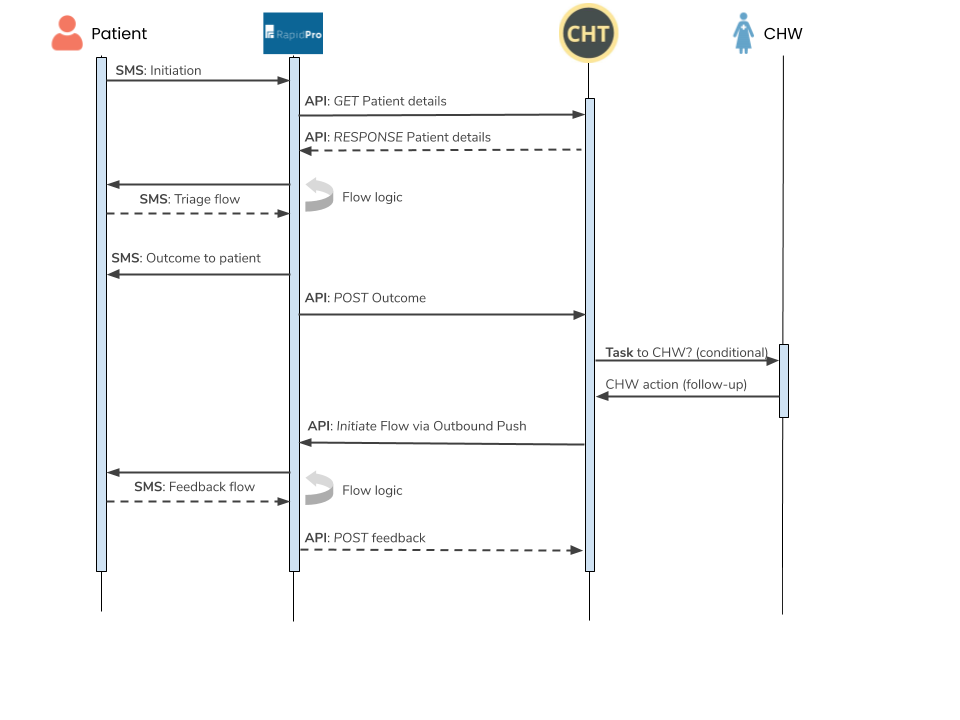
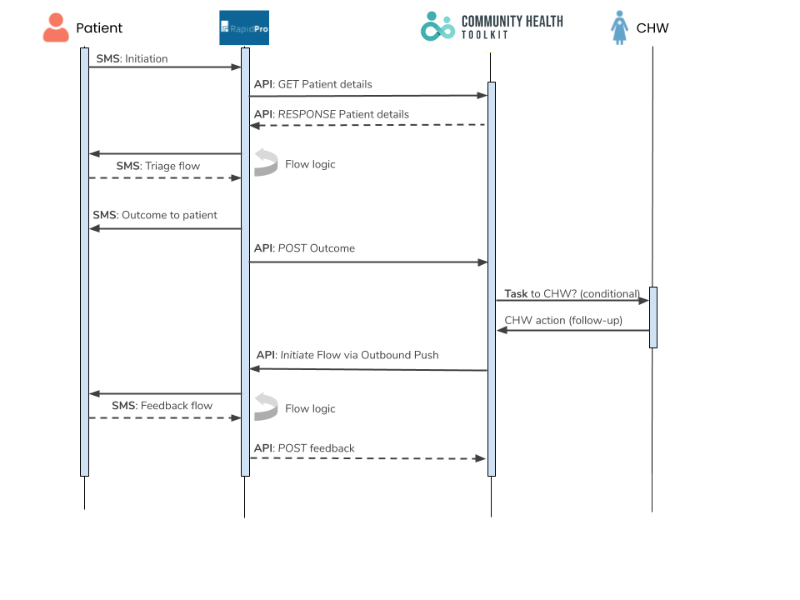
deploy: medic/cht-docs@770b8675240901bf1123230ab7946352ca814cf2

Changed region(s): [[0.5, 0.0, 0.7188, 0.09]]

diff --git a/building/guides/integrations/openmrs/index.html b/building/guides/integrations/openmrs/index.html
@@ -1,8 +1,8 @@
 <!doctype html><html itemscope itemtype=http://schema.org/WebPage lang=en class=no-js><head><meta charset=utf-8><meta name=viewport content="width=device-width,initial-scale=1,shrink-to-fit=no"><meta name=robots content="index, follow"><link rel="shortcut icon" href=/favicons/favicon.ico><link rel=apple-touch-icon href=/favicons/apple-touch-icon-180x180.png sizes=180x180><link rel=icon type=image/png href=/favicons/favicon-16x16.png sizes=16x16><link rel=icon type=image/png href=/favicons/favicon-32x32.png sizes=32x32><link rel=icon type=image/png href=/favicons/android-36x36.png sizes=36x36><link rel=icon type=image/png href=/favicons/android-48x48.png sizes=48x48><link rel=icon type=image/png href=/favicons/android-72x72.png sizes=72x72><link rel=icon type=image/png href=/favicons/android-96x96.png sizes=96x96><link rel=icon type=image/png href=/favicons/android-144x144.png sizes=144x144><link rel=icon type=image/png href=/favicons/android-192x192.png sizes=192x192><title>OpenMRS | Community Health Toolkit</title>
 <meta name=description content="Exchange patient-level data with systems based on the OpenMRS platform
 "><meta property="og:title" content="OpenMRS"><meta property="og:description" content="Exchange patient-level data with systems based on the OpenMRS platform
-"><meta property="og:type" content="article"><meta property="og:url" content="https://docs.communityhealthtoolkit.org/building/guides/integrations/openmrs/"><meta property="article:section" content="building"><meta property="article:modified_time" content="2024-09-12T21:04:47+03:00"><meta property="og:site_name" content="Community Health Toolkit"><meta itemprop=name content="OpenMRS"><meta itemprop=description content="Exchange patient-level data with systems based on the OpenMRS platform
-"><meta itemprop=dateModified content="2024-09-12T21:04:47+03:00"><meta itemprop=wordCount content="1490"><meta itemprop=keywords content><meta name=twitter:card content="summary"><meta name=twitter:title content="OpenMRS"><meta name=twitter:description content="Exchange patient-level data with systems based on the OpenMRS platform
+"><meta property="og:type" content="article"><meta property="og:url" content="https://docs.communityhealthtoolkit.org/building/guides/integrations/openmrs/"><meta property="article:section" content="building"><meta property="article:modified_time" content="2024-10-03T17:52:16+05:30"><meta property="og:site_name" content="Community Health Toolkit"><meta itemprop=name content="OpenMRS"><meta itemprop=description content="Exchange patient-level data with systems based on the OpenMRS platform
+"><meta itemprop=dateModified content="2024-10-03T17:52:16+05:30"><meta itemprop=wordCount content="1490"><meta itemprop=keywords content><meta name=twitter:card content="summary"><meta name=twitter:title content="OpenMRS"><meta name=twitter:description content="Exchange patient-level data with systems based on the OpenMRS platform
 "><link rel=preload href=/scss/main.min.190d4778e46dcbeaa7f52d0cdaca0337d1b1d02e0f1f1182af6223de3bd2058c.css as=style><link href=/scss/main.min.190d4778e46dcbeaa7f52d0cdaca0337d1b1d02e0f1f1182af6223de3bd2058c.css rel=stylesheet integrity><script src=https://code.jquery.com/jquery-3.7.1.min.js integrity="sha512-v2CJ7UaYy4JwqLDIrZUI/4hqeoQieOmAZNXBeQyjo21dadnwR+8ZaIJVT8EE2iyI61OV8e6M8PP2/4hpQINQ/g==" crossorigin=anonymous></script><script async src="https://www.googletagmanager.com/gtag/js?id=G-98W4V2NTPJ"></script><script>var doNotTrack=!1;if(!doNotTrack){window.dataLayer=window.dataLayer||[];function gtag(){dataLayer.push(arguments)}gtag("js",new Date),gtag("config","G-98W4V2NTPJ")}</script></head><body class=td-page><header><nav class="td-navbar js-navbar-scroll" data-bs-theme=dark><div class="container-fluid flex-column flex-md-row"><a class=navbar-brand href=/><span class="navbar-brand__logo navbar-logo"><svg version="1.0" width="30pt" height="30pt" viewBox="0 0 30 30" preserveAspectRatio="xMidYMid" id="svg10" sodipodi:docname="logo.svg" xmlns:inkscape="http://www.inkscape.org/namespaces/inkscape" xmlns:sodipodi="http://sodipodi.sourceforge.net/DTD/sodipodi-0.dtd" xmlns="http://www.w3.org/2000/svg" xmlns:svg="http://www.w3.org/2000/svg"><defs id="defs14"/><sodipodi:namedview id="namedview12" pagecolor="#ffffff" bordercolor="#000000" borderopacity=".25" inkscape:showpageshadow="2" inkscape:pageopacity="0" inkscape:pagecheckerboard="0" inkscape:deskcolor="#d1d1d1" inkscape:document-units="pt" showgrid="false"/><g transform="matrix(0.01425486,0,0,-0.01425486,-6.1268548,35.340843)" fill="#fff" stroke="none" id="g8" inkscape:export-filename="logo.svg" inkscape:export-xdpi="11.943796" inkscape:export-ydpi="11.943796"><path d="m1057 24e2c-142-36-238-167-224-305 24-239 311-344 483-178 143 140 96 391-88 468-47 19-125 26-171 15z" id="path2"/><path d="m1945 2076c-34-15-92-76-106-113-26-68-1-170 53-220 97-91 257-61 319 59 21 41 25 120 8 165-14 38-67 92-106 109-40 17-128 17-168 0z" id="path4"/><path d="M9e2 1744c-260-68-440-3e2-440-564 1-272 187-509 450-571 77-18 213-16 285 5 121 36 191 82 341 228l140 137 80-80c58-59 99-90 153-117 73-36 77-37 190-37 110 0 120 2 184 32 376 178 325 721-78 829-158 43-301-4-447-144l-88-85-143 140c-155 153-225 199-349 228-79 18-206 18-278-1zm271-293c24-12 103-77 174-146l130-124-120-121c-148-149-204-182-313-181-96 0-157 27-222 98-149 163-83 410 129 490 53 20 167 12 222-16zm1017-138c44-33 65-69 70-122 9-97-61-171-163-171-60 0-87 15-162 92l-63 64 73 71c39 40 83 77 97 82 37 16 117 7 148-16z" id="path6"/></g></svg></span><span class=navbar-brand__name>Community Health Toolkit</span></a><div class="td-navbar-nav-scroll ms-md-auto" id=main_navbar><ul class=navbar-nav><li class="td-light-dark-menu nav-item dropdown"><svg xmlns="http://www.w3.org/2000/svg" class="d-none"><symbol id="check2" viewBox="0 0 16 16"><path d="M13.854 3.646a.5.5.0 010 .708l-7 7a.5.5.0 01-.708.0l-3.5-3.5a.5.5.0 11.708-.708L6.5 10.293l6.646-6.647a.5.5.0 01.708.0z"/></symbol><symbol id="circle-half" viewBox="0 0 16 16"><path d="M8 15A7 7 0 108 1v14zm0 1A8 8 0 118 0a8 8 0 010 16z"/></symbol><symbol id="moon-stars-fill" viewBox="0 0 16 16"><path d="M6 .278a.768.768.0 01.08.858 7.208 7.208.0 00-.878 3.46c0 4.021 3.278 7.277 7.318 7.277.527.0 1.04-.055 1.533-.16a.787.787.0 01.81.316.733.733.0 01-.031.893A8.349 8.349.0 018.344 16C3.734 16 0 12.286.0 7.71.0 4.266 2.114 1.312 5.124.06A.752.752.0 016 .278z"/><path d="M10.794 3.148a.217.217.0 01.412.0l.387 1.162c.173.518.579.924 1.097 1.097l1.162.387a.217.217.0 010 .412l-1.162.387A1.734 1.734.0 0011.593 7.69l-.387 1.162a.217.217.0 01-.412.0l-.387-1.162A1.734 1.734.0 009.31 6.593l-1.162-.387a.217.217.0 010-.412l1.162-.387a1.734 1.734.0 001.097-1.097l.387-1.162zM13.863.099a.145.145.0 01.274.0l.258.774c.115.346.386.617.732.732l.774.258a.145.145.0 010 .274l-.774.258a1.156 1.156.0 00-.732.732l-.258.774a.145.145.0 01-.274.0l-.258-.774a1.156 1.156.0 00-.732-.732l-.774-.258a.145.145.0 010-.274l.774-.258c.346-.115.617-.386.732-.732L13.863.1z"/></symbol><symbol id="sun-fill" viewBox="0 0 16 16"><path d="M8 12a4 4 0 100-8 4 4 0 000 8zM8 0a.5.5.0 01.5.5v2a.5.5.0 01-1 0v-2A.5.5.0 018 0zm0 13a.5.5.0 01.5.5v2a.5.5.0 01-1 0v-2A.5.5.0 018 13zm8-5a.5.5.0 01-.5.5h-2a.5.5.0 010-1h2a.5.5.0 01.5.5zM3 8a.5.5.0 01-.5.5h-2a.5.5.0 010-1h2A.5.5.0 013 8zm10.657-5.657a.5.5.0 010 .707l-1.414 1.415a.5.5.0 11-.707-.708l1.414-1.414a.5.5.0 01.707.0zm-9.193 9.193a.5.5.0 010 .707L3.05 13.657a.5.5.0 01-.707-.707l1.414-1.414a.5.5.0 01.707.0zm9.193 2.121a.5.5.0 01-.707.0l-1.414-1.414a.5.5.0 01.707-.707l1.414 1.414a.5.5.0 010 .707zM4.464 4.465a.5.5.0 01-.707.0L2.343 3.05a.5.5.0 11.707-.707l1.414 1.414a.5.5.0 010 .708z"/></symbol></svg>
 <button class="btn btn-link nav-link dropdown-toggle d-flex align-items-center" id=bd-theme type=button aria-expanded=false data-bs-toggle=dropdown data-bs-display=static aria-label="Toggle theme (auto)"><svg class="bi my-1 theme-icon-active"><use href="#circle-half"/></svg></button><ul class="dropdown-menu dropdown-menu-end" aria-labelledby=bd-theme-text><li><button type=button class="dropdown-item d-flex align-items-center" data-bs-theme-value=light aria-pressed=false>
 <svg class="bi me-2 opacity-50"><use href="#sun-fill"/></svg>
@@ -315,7 +315,7 @@ Auto<svg class="bi ms-auto d-none"><use href="#check2"/></svg></button></li></ul
 <label for=m-contributemediconboardingteam-meetings-check><a href=/contribute/medic/onboarding/team-meetings/ class="align-left pl-0 td-sidebar-link td-sidebar-link__page" id=m-contributemediconboardingteam-meetings><span>Team Meetings</span></a></label></li><li class="td-sidebar-nav__section-title td-sidebar-nav__section without-child" id=m-contributemediconboardingdaily-updates-li><input type=checkbox id=m-contributemediconboardingdaily-updates-check>
 <label for=m-contributemediconboardingdaily-updates-check><a href=/contribute/medic/onboarding/daily-updates/ class="align-left pl-0 td-sidebar-link td-sidebar-link__page" id=m-contributemediconboardingdaily-updates><span>Daily Updates</span></a></label></li></ul></li></ul></li></ul></li><li class="td-sidebar-nav__section-title td-sidebar-nav__section without-child" id=m-glossary-li><input type=checkbox id=m-glossary-check>
 <label for=m-glossary-check><a href=/glossary/ title="Glossary and Definitions" class="align-left pl-0 td-sidebar-link td-sidebar-link__page" id=m-glossary><span>Glossary</span></a></label></li></ul></li></ul></nav></div></aside><aside class="d-none d-xl-block col-xl-2 td-sidebar-toc d-print-none"><div class="td-page-meta ml-2 pb-1 pt-2 mb-0"><a href=https://github.com/medic/cht-docs/edit/main/content/en/building/guides/integrations/openmrs.md class=td-page-meta--edit target=_blank rel=noopener><i class="fa fa-edit fa-fw"></i> Edit this page</a>
-<a href="https://github.com/medic/cht-docs/issues/new?title=Improve+%27OpenMRS%27&amp;labels=enhancement&amp;body=Page:+/building/guides/integrations/openmrs/%0aVersion:+2024-09-12%2021:04:47%20+0300%20+0300%0a---" class=td-page-meta--issue target=_blank rel=noopener><i class="fab fa-github fa-fw"></i> Create documentation issue</a>
+<a href="https://github.com/medic/cht-docs/issues/new?title=Improve+%27OpenMRS%27&amp;labels=enhancement&amp;body=Page:+/building/guides/integrations/openmrs/%0aVersion:+2024-10-03%2017:52:16%20+0530%20+0530%0a---" class=td-page-meta--issue target=_blank rel=noopener><i class="fab fa-github fa-fw"></i> Create documentation issue</a>
 <a href=https://github.com/medic/cht-core/issues/new class=td-page-meta--project-issue target=_blank rel=noopener><i class="fas fa-tasks fa-fw"></i> Create project issue</a></div><div class=td-toc><nav id=TableOfContents><ul><li><a href=#overview>Overview</a></li><li><a href=#prerequisites>Prerequisites</a></li><li><a href=#getting-started>Getting started</a><ul><li><a href=#cht-to-openmrs>CHT to OpenMRS</a><ul><li><a href=#mapping-forms>Mapping forms</a></li><li><a href=#handling-the-data>Handling the data</a></li><li><a href=#error-handling>Error Handling</a></li></ul></li><li><a href=#openmrs-to-cht>OpenMRS to CHT</a><ul><li><a href=#scheduled-tasks>Scheduled tasks</a></li><li><a href=#listener-script-in-the-cht>Listener script in the CHT</a></li></ul></li></ul></li></ul></nav></div></aside><main class="col-12 col-md-9 col-xl-8 ps-md-5" role=main><nav aria-label=breadcrumb class=td-breadcrumbs><ol class=breadcrumb><li class=breadcrumb-item><a href=/building/>Building</a></li><li class=breadcrumb-item><a href=/building/guides/>Quick Guides</a></li><li class=breadcrumb-item><a href=/building/guides/integrations/>Integrations</a></li><li class="breadcrumb-item active" aria-current=page>OpenMRS</li></ol></nav><div class=td-content><h1>OpenMRS</h1><div class=lead>Exchange patient-level data with systems based on the OpenMRS platform</div><header class=article-meta></header><p><a href=https://openmrs.org>OpenMRS</a> is an open source electronic medical record system used in dozens of countries. Integrating CHT apps with OpenMRS can open up opportunities to improve health outcomes for patients by promoting better coordination of care. For example, referrals by CHWs in the community can be sent electronically to health facilities using OpenMRS so that nurses and clinicians can prepare for their visit and have full access to the assessment done by a CHW.</p><p>Integrating CHT apps with OpenMRS can be achieved using the <a href=https://rest.openmrs.org/>OpenMRS REST API</a> and following the guidance in the <a href=https://docs.communityhealthtoolkit.org/building/features/integrations/custom/>Custom Integrations</a> documentation.</p><h2 id=overview>Overview<a class=td-heading-self-link href=#overview aria-label="Heading self-link"></a></h2><p>The CHT Core Framework supports integrations with OpenMRS in a variety of ways:</p><ol><li>Sending patient and patient contacts data</li><li>Sending reports (encounters and observations) data</li><li>Exposing an API for OpenMRS developers to pull data from CHT Core</li><li>Receiving data from OpenMRS</li></ol><p>Sending patients, patient contacts, and reports data can be achieved using the <a href=(https://docs.communityhealthtoolkit.org/building/reference/app-settings/outbound/)>Outbound push</a>. Receiving data from OpenMRS can be achieved using the CHT Core Web <a href=https://docs.communityhealthtoolkit.org/building/reference/api/>API</a>.</p><p>Common OpenMRS use cases include:</p><ol><li><strong>Linkage to care</strong>: Completion of medical visits after diagnosis</li><li><strong>Contact tracing</strong>: OpenMRS generates a list of contacts to be followed up</li><li><strong>Care coordination</strong>: Reminding patients to self-report or health-care givers to complete follow ups on patients of interest</li></ol><h2 id=prerequisites>Prerequisites<a class=td-heading-self-link href=#prerequisites aria-label="Heading self-link"></a></h2><p>As you design your usecases, bear in mind that at the heart of OpenMRS is the <a href=https://wiki.openmrs.org/display/docs/Concept+Dictionary+Basics>Concept Dictionary</a>. Every contact, relationship, encounter or observation metadata exists first, which guides the definition of the forms in the CHT. Therefore, you need to have good understanding of what data maps to what concept.</p><h2 id=getting-started>Getting started<a class=td-heading-self-link href=#getting-started aria-label="Heading self-link"></a></h2><p>The <a href=https://docs.communityhealthtoolkit.org/building/reference/api/>CHT API</a> and <a href=https://rest.openmrs.org/#openmrs-rest-api>OpenMRS API</a> are used for integration. However, the APIs do not do data cleaning and formatting out-of-the-box. Therefore, both systems require custom solutions that ochestrate the functionality to transform exchanged data to be accepted. In the following sections, we focus more on the general procedure for setting up custom modules and services.</p><h3 id=cht-to-openmrs>CHT to OpenMRS<a class=td-heading-self-link href=#cht-to-openmrs aria-label="Heading self-link"></a></h3><p>This section focuses on a simple process and the best practices to send data to OpenMRS.</p><h4 id=mapping-forms>Mapping forms<a class=td-heading-self-link href=#mapping-forms aria-label="Heading self-link"></a></h4><p>The first thing is to define forms to capture data. Forms can be contact or app, which translate to patient and encounter (for example, observation, lab request, and referral) respectively. Forms are defined using the XLS Form standard.
 Some of the best practices here include adopting a convention that results in minimum disruption (or that would require minimal processing) of the concept dictionary.</p><ol><li><strong>Defining contact forms</strong></li></ol><p>Here, you need to capture the basic details required for registering a patient or a patient contact in OpenMRS. Below is a sample naming convention for demographic details such as a person&rsquo;s name (under field name):</p><p><code>patient_familyName</code> for family_name,
 <code>patient_firstName</code> for first_name,
@@ -358,15 +358,15 @@ Some of the best practices here include adopting a convention that results in mi
 </span></span><span class=line><span class=cl>    }
 </span></span><span class=line><span class=cl>}
 </span></span></code></pre></div><ol start=2><li><strong>Queueing</strong></li></ol><p>This step involves adding a transformed payload, now objects, to a queue. This is important because it helps to capture errors that occur during processing and the data can be corrected and re-queued. A queue will have both registration and encounter objects.</p><p>You need to define a queue processor that will be consuming the queue and push each object to the rightful handler.</p><ol start=3><li><strong>Data handlers</strong></li></ol><p>Data handlers are responsible for persisting the data in OpenMRS. The handler can also be used to trigger feedback to submitters of the data (this can be a brief summary such as number of synced documents and success rate). The following steps apply:</p><ul><li>Define handlers for each object type (e.g. person / patient, trace report.</li><li>Create a scheduler to start the queue processor above. The queue processor shall get to the handler for processing.</li><li>Closely monitor the errors log for prompt action where necessary.</li></ul><p>You may want to further configure a service that relays feedback to the CHT. Feel free to utilize in-app text messages, which can be triggered via the <a href=https://docs.communityhealthtoolkit.org/building/reference/api/#post-apisms>sms endpoint</a> of CHT. The health workers would receive these feedback messages on their phones as well as access via the Messages tab in-app.</p><h4 id=error-handling>Error Handling<a class=td-heading-self-link href=#error-handling aria-label="Heading self-link"></a></h4><p>Exceptions thrown during processing can be added to a queue and presented on an interface for action. The erring data may then be re-queued. You need to consider what works best at this point. For convenience, it makes sense for a backend user to resolve such errors.</p><p>Sample OpenMRS handler scripts include:</p><ol><li><a href=https://github.com/PIH/openmrs-module-emr>PIH Malawi&rsquo;s EMR handler</a></li><li><a href=https://github.com/palladiumkenya/openmrs-module-afyastat>KenyaEMR handler</a></li></ol><h3 id=openmrs-to-cht>OpenMRS to CHT<a class=td-heading-self-link href=#openmrs-to-cht aria-label="Heading self-link"></a></h3><h4 id=scheduled-tasks>Scheduled tasks<a class=td-heading-self-link href=#scheduled-tasks aria-label="Heading self-link"></a></h4><p>This includes defining a scheduler and a task that will be compiling the payload to be pushed to the CHT on specific intervals. Remember that the CHT expects data in JSON format.
-The CHT API can be used to process incoming reports. For custom payloads, the <a href=https://docs.couchdb.org/en/stable/api/database/bulk-api.html#db-bulk-docs>{db}/bulk_docs</a> can be utilized to save multiple payloads concurrent</p><h4 id=listener-script-in-the-cht>Listener script in the CHT<a class=td-heading-self-link href=#listener-script-in-the-cht aria-label="Heading self-link"></a></h4><p>This is a service that would help shift information in the CHT <a href=https://docs.communityhealthtoolkit.org/building/reference/app-settings/hierarchy/>hierarchy</a> to support the usecases of interest. Through {db}/bulk_docs, OpenMRS posts a data record that contains data objects such as observations and contact list (if available) details. The service obtains the record, and unpacks it into a contact in CHT and parented under the correct hierarchy level based on the metadata received from OpenMRS. The script should:</p><ol><li>Do patient matching to avoid duplicate details. Querying can be achieved via available endpoints such as <code>contacts_by_phone</code> <a href=https://docs.communityhealthtoolkit.org/building/reference/api/#get-apiv1contacts-by-phone>endpoint</a> and <code>hydrate</code> <a href=https://docs.communityhealthtoolkit.org/building/reference/api/#get-apiv1hydrate>endpoint</a> among others/</li><li>If the incoming data matches what exists, update the contact found in CHT.</li><li>Process all reports payloads and append them to the linked contact’s profile. Note that the <code>&lt;report type></code> xml or JSON form has to be defined in the CHT.</li><li>Delete the payload that is received from OpenMRS after it is processed since it will have been used to create CHT data structures.</li><li>Monitor and log failed transactions</li></ol><p>Once you have configured the above for data exchange, the data flow will be like this:</p><p><img src=cht-openmrs.jpg alt="CHT - OpenMRS Data Flow"></p><h2 id=related-content>Related Content</h2><div class=section-index><hr class=panel-line><div class=entry><h5><a href=/building/features/integrations/custom/>Building >
+The CHT API can be used to process incoming reports. For custom payloads, the <a href=https://docs.couchdb.org/en/stable/api/database/bulk-api.html#db-bulk-docs>{db}/bulk_docs</a> can be utilized to save multiple payloads concurrent</p><h4 id=listener-script-in-the-cht>Listener script in the CHT<a class=td-heading-self-link href=#listener-script-in-the-cht aria-label="Heading self-link"></a></h4><p>This is a service that would help shift information in the CHT <a href=https://docs.communityhealthtoolkit.org/building/reference/app-settings/hierarchy/>hierarchy</a> to support the usecases of interest. Through {db}/bulk_docs, OpenMRS posts a data record that contains data objects such as observations and contact list (if available) details. The service obtains the record, and unpacks it into a contact in CHT and parented under the correct hierarchy level based on the metadata received from OpenMRS. The script should:</p><ol><li>Do patient matching to avoid duplicate details. Querying can be achieved via available endpoints such as <code>contacts_by_phone</code> <a href=https://docs.communityhealthtoolkit.org/building/reference/api/#get-apiv1contacts-by-phone>endpoint</a> and <code>hydrate</code> <a href=https://docs.communityhealthtoolkit.org/building/reference/api/#get-apiv1hydrate>endpoint</a> among others/</li><li>If the incoming data matches what exists, update the contact found in CHT.</li><li>Process all reports payloads and append them to the linked contact’s profile. Note that the <code>&lt;report type></code> xml or JSON form has to be defined in the CHT.</li><li>Delete the payload that is received from OpenMRS after it is processed since it will have been used to create CHT data structures.</li><li>Monitor and log failed transactions</li></ol><p>Once you have configured the above for data exchange, the data flow will be like this:</p><p><img src=cht-openmrs.jpeg alt="CHT - OpenMRS Data Flow"></p><h2 id=related-content>Related Content</h2><div class=section-index><hr class=panel-line><div class=entry><h5><a href=/building/features/integrations/custom/>Building >
 Features >
 Integrations >
 Custom</a></h5><p class=one-liner>Integrate with any system using RESTful APIs</p></div><div class=entry><h5><a href=/building/features/integrations/openmrs/>Building >
 Features >
 Integrations >
 OpenMRS</a></h5><p class=one-liner>Exchange patient-level data with systems based on the OpenMRS platform</p></div></div><style>.feedback--answer{display:inline-block}.feedback--answer-no{margin-left:1em}.feedback--response{display:none;margin-top:1em}.feedback--response__visible{display:block}</style><div class=d-print-none><h2 class=feedback--title>Feedback</h2><p class=feedback--question>Was this page helpful?</p><button class="btn btn-primary mb-4 feedback--answer feedback--answer-yes">Yes</button>
-<button class="btn btn-primary mb-4 feedback--answer feedback--answer-no">No</button><p class="feedback--response feedback--response-yes">Glad to hear it! Please <a href=https://github.com/medic/cht-docs/issues/new>tell us how we can improve</a>.</p><p class="feedback--response feedback--response-no">Sorry to hear that. Please <a href=https://github.com/medic/cht-docs/issues/new>tell us how we can improve</a>.</p></div><script>const yesButton=document.querySelector(".feedback--answer-yes"),noButton=document.querySelector(".feedback--answer-no"),yesResponse=document.querySelector(".feedback--response-yes"),noResponse=document.querySelector(".feedback--response-no"),disableButtons=()=>{yesButton.disabled=!0,noButton.disabled=!0},sendFeedback=e=>{if(typeof gtag!="function")return;gtag("event","page_helpful",{event_category:"Helpful",event_label:window.location.pathname,value:e})};yesButton.addEventListener("click",()=>{yesResponse.classList.add("feedback--response__visible"),disableButtons(),sendFeedback(100)}),noButton.addEventListener("click",()=>{noResponse.classList.add("feedback--response__visible"),disableButtons(),sendFeedback(0)})</script><br><br><div class="text-muted mt-5 pt-3 border-top">Last modified 12.09.2024: <a href=https://github.com/medic/cht-docs/commit/84007b2b38c4697f3aee10d6b4785bf1668d4267>Remove extra alias bullet (#1541) (84007b2b)</a></div><div class="d-xl-none d-print-none meta-links"><div class="td-page-meta ml-2 pb-1 pt-2 mb-0"><a href=https://github.com/medic/cht-docs/edit/main/content/en/building/guides/integrations/openmrs.md class=td-page-meta--edit target=_blank rel=noopener><i class="fa fa-edit fa-fw"></i> Edit this page</a>
-<a href="https://github.com/medic/cht-docs/issues/new?title=Improve+%27OpenMRS%27&amp;labels=enhancement&amp;body=Page:+/building/guides/integrations/openmrs/%0aVersion:+2024-09-12%2021:04:47%20+0300%20+0300%0a---" class=td-page-meta--issue target=_blank rel=noopener><i class="fab fa-github fa-fw"></i> Create documentation issue</a>
+<button class="btn btn-primary mb-4 feedback--answer feedback--answer-no">No</button><p class="feedback--response feedback--response-yes">Glad to hear it! Please <a href=https://github.com/medic/cht-docs/issues/new>tell us how we can improve</a>.</p><p class="feedback--response feedback--response-no">Sorry to hear that. Please <a href=https://github.com/medic/cht-docs/issues/new>tell us how we can improve</a>.</p></div><script>const yesButton=document.querySelector(".feedback--answer-yes"),noButton=document.querySelector(".feedback--answer-no"),yesResponse=document.querySelector(".feedback--response-yes"),noResponse=document.querySelector(".feedback--response-no"),disableButtons=()=>{yesButton.disabled=!0,noButton.disabled=!0},sendFeedback=e=>{if(typeof gtag!="function")return;gtag("event","page_helpful",{event_category:"Helpful",event_label:window.location.pathname,value:e})};yesButton.addEventListener("click",()=>{yesResponse.classList.add("feedback--response__visible"),disableButtons(),sendFeedback(100)}),noButton.addEventListener("click",()=>{noResponse.classList.add("feedback--response__visible"),disableButtons(),sendFeedback(0)})</script><br><br><div class="text-muted mt-5 pt-3 border-top">Last modified 03.10.2024: <a href=https://github.com/medic/cht-docs/commit/770b8675240901bf1123230ab7946352ca814cf2>fix(#1553): Replace old CHT logo on docsite (#1588) (770b8675)</a></div><div class="d-xl-none d-print-none meta-links"><div class="td-page-meta ml-2 pb-1 pt-2 mb-0"><a href=https://github.com/medic/cht-docs/edit/main/content/en/building/guides/integrations/openmrs.md class=td-page-meta--edit target=_blank rel=noopener><i class="fa fa-edit fa-fw"></i> Edit this page</a>
+<a href="https://github.com/medic/cht-docs/issues/new?title=Improve+%27OpenMRS%27&amp;labels=enhancement&amp;body=Page:+/building/guides/integrations/openmrs/%0aVersion:+2024-10-03%2017:52:16%20+0530%20+0530%0a---" class=td-page-meta--issue target=_blank rel=noopener><i class="fab fa-github fa-fw"></i> Create documentation issue</a>
 <a href=https://github.com/medic/cht-core/issues/new class=td-page-meta--project-issue target=_blank rel=noopener><i class="fas fa-tasks fa-fw"></i> Create project issue</a></div></div></div></main></div></div><footer class="td-footer row d-print-none"><div class=container-fluid><div class="row mx-md-2"><div class="td-footer__left col-6 col-sm-4 order-sm-1"></div><div class="td-footer__right col-6 col-sm-4 order-sm-3"></div><div class="td-footer__center col-12 col-sm-4 py-2 order-sm-2"><span class=td-footer__copyright>&copy;
 2024
 <span class=td-footer__authors>CHT</span></span><span class=td-footer__all_rights_reserved>All Rights Reserved</span><span class=ms-2><a href="https://docs.google.com/document/d/1MaI1rgYMNyCZF2eEjBuvnBDoCYHDKlx4k_N5pkDiWu8/edit?usp=sharing" target=_blank rel=noopener>Privacy Policy</a></span></div></div></div></footer></div><script src=/js/main.min.67106435b48bd4be8da89992919b230eaa1fd426e8856556b88a03a942114880.js integrity="sha256-ZxBkNbSL1L6NqJmSkZsjDqof1CbohWVWuIoDqUIRSIA=" crossorigin=anonymous></script><script defer src=/js/click-to-copy.min.73478a7d4807698aed7e355eb23f9890ca18fea3158604c8471746d046702bad.js integrity="sha256-c0eKfUgHaYrtfjVesj+YkMoY/qMVhgTIRxdG0EZwK60=" crossorigin=anonymous></script><script src=/js/tabpane-persist.js></script></body></html>
